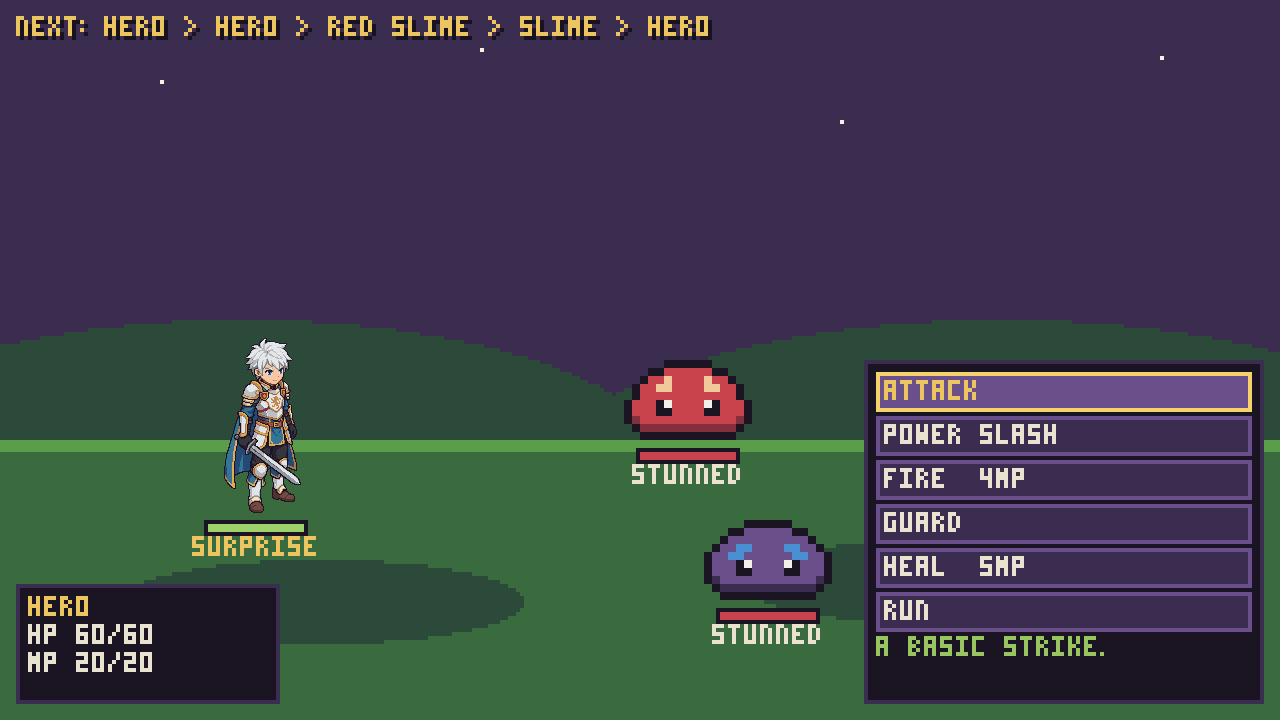
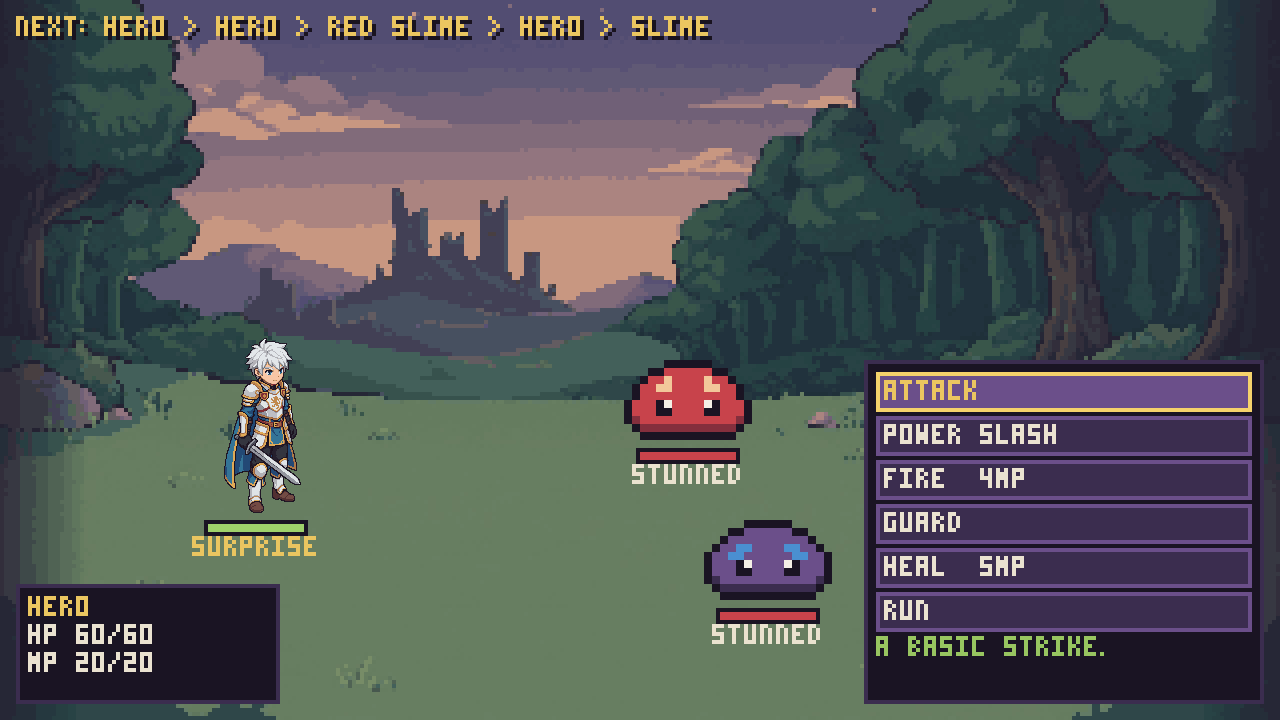
Battle background: dusk field with castle ruins
- New 320x180 battle_bg.png converted from the AI art (art/backgrounds/battle_field_dusk.jpg)
  with tools/sprite_pipeline/bg_to_grid.py (40 colors, center-vote per cell).
- BattleManager.background_palette merges the scenery colors into the CRT palette, so F2
  no longer remaps the background.
- Test battle_background (size + every color in the palette); a palette missing one color
  fails it (1306 px missing). 129 checks pass.

Claude-Session: https://claude.ai/code/session_01SjDGGaM8XdCMsJ9RUxFNa6

diff --git a/tools/sprite_pipeline/bg_to_grid.py b/tools/sprite_pipeline/bg_to_grid.py
@@ -1,0 +1,34 @@
+#!/usr/bin/env python3
+"""Cenário "pixel art" da IA -> pixel art real na grade do jogo (320x180).
+O Gemini desenhou com "pixels" de ~8 px numa imagem de 2576x1438, ou seja, já pensando numa
+grade de ~320x180. Cada célula da grade vira 1 pixel com a cor mais votada do bloco (depois de
+reduzir a imagem inteira para uma paleta curta), então as bordas ficam nítidas e as cores puras.
+Uso: bg_to_grid.py <imagem> <saida.png> [--w 320] [--h 180] [--colors 40] [--palette-out pal.png]"""
+import argparse
+import numpy as np
+from PIL import Image
+
+ap = argparse.ArgumentParser()
+ap.add_argument("image"); ap.add_argument("out")
+ap.add_argument("--w", type=int, default=320); ap.add_argument("--h", type=int, default=180)
+ap.add_argument("--colors", type=int, default=40); ap.add_argument("--palette-out")
+a = ap.parse_args()
+im = Image.open(a.image).convert("RGB")
+q = im.quantize(a.colors, method=Image.Quantize.MEDIANCUT, kmeans=3, dither=Image.Dither.NONE)
+pal = np.array(q.getpalette()[: a.colors * 3]).reshape(-1, 3)
+idx = np.asarray(q).astype(int)
+H, W = idx.shape
+ys = np.linspace(0, H, a.h + 1).astype(int); xs = np.linspace(0, W, a.w + 1).astype(int)
+out = np.zeros((a.h, a.w, 3), "uint8")
+for i in range(a.h):
+    for j in range(a.w):
+        blk = idx[ys[i]:ys[i + 1], xs[j]:xs[j + 1]]
+        # só o miolo do bloco (as bordas da célula da IA são borradas pelo JPEG)
+        bh, bw = blk.shape
+        core = blk[bh // 4: bh - bh // 4 or bh, bw // 4: bw - bw // 4 or bw].ravel()
+        out[i, j] = pal[np.bincount(core, minlength=a.colors).argmax()]
+Image.fromarray(out).save(a.out)
+used = sorted(set(map(tuple, out.reshape(-1, 3))))
+if a.palette_out:
+    Image.fromarray(np.array(used, "uint8").reshape(1, -1, 3)).save(a.palette_out)
+print(f"{a.out}: {a.w}x{a.h}, {len(used)} cores")

diff --git a/docs/ARCHITECTURE.md b/docs/ARCHITECTURE.md
@@ -173,11 +173,11 @@ or copy its tween; the shader has no scene-specific code.
 ## 5. Verification
 
 ```
-godot --headless --path . res://tests/test_runner.tscn          # 126 checks, exit code 0/1
+godot --headless --path . res://tests/test_runner.tscn          # 129 checks, exit code 0/1
 xvfb-run godot --path . --rendering-driver opengl3 res://tests/capture.tscn -- /tmp/shots
 ```
 
-`test_runner` (126 checks) covers HD frames (every animation, shared origin), the HD battle view
+`test_runner` (129 checks) covers the battle background (320x180, colors in the CRT palette), HD frames (every animation, shared origin), the HD battle view
 (stretch mode, 1:1 scale, idle/defend/attack/death), Guard lasting until the next turn, the skill pipeline, cooldowns, status modifiers, advantage geometry, both
 openings, persistence across battle, a full automated battle (loop test), and three overworld
 scenarios (cone → suspicious → alert → chase; back strike = PLAYER; chased from behind = ENEMY).

diff --git a/tools/sprite_pipeline/README.md b/tools/sprite_pipeline/README.md
@@ -37,3 +37,18 @@ How `assets/sprites/knight/*.png` were made. Sources live in `art/knight/`.
 
 Rules that keep animations from "jumping": same origin (96, 190) in every sheet, one scale per
 strip (head size for poses with no standing frame), locked palette for every animation.
+
+## Backgrounds — `bg_to_grid.py`
+
+AI "pixel art" backgrounds come as big images with fake ~8 px pixels. `bg_to_grid.py` turns
+one into real pixel art on the game grid: reduce to a short palette (median cut, no dither),
+then each grid cell becomes the most-voted color of its center.
+
+```bash
+python3 tools/sprite_pipeline/bg_to_grid.py art/backgrounds/battle_field_dusk.jpg \
+    assets/sprites/battle_bg.png --w 320 --h 180 --colors 40 \
+    --palette-out assets/sprites/battle_bg_palette.png
+```
+
+The palette goes to `BattleManager.background_palette` (battle.tscn) so the CRT filter (F2)
+keeps the scenery colors.
